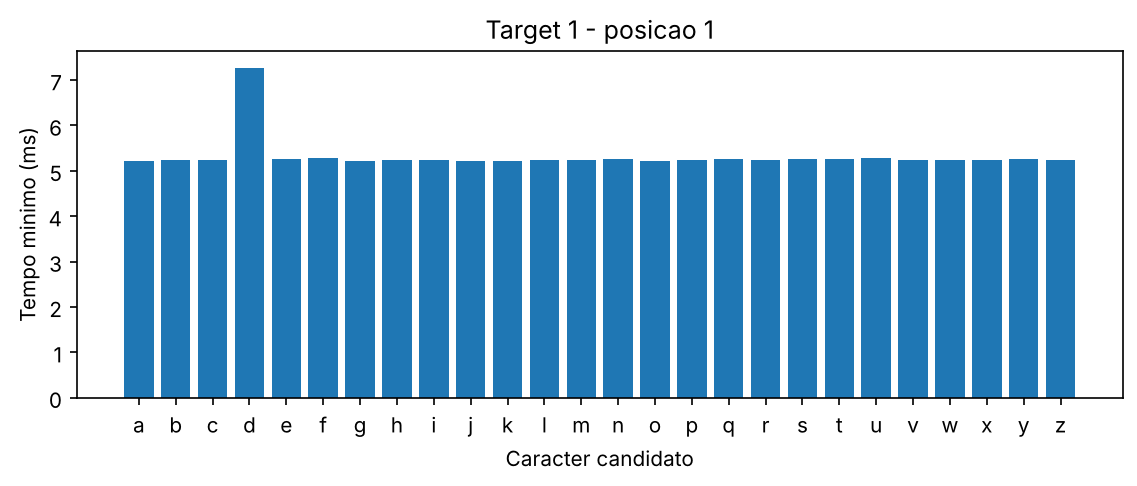
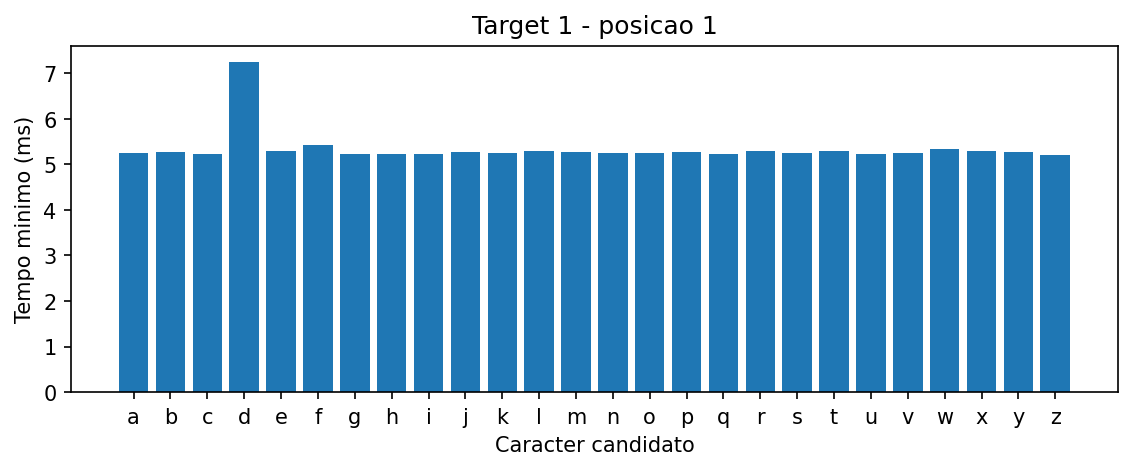
solve issues

Changed region(s): [[0.0, 0.0298, 0.9894, 0.9234], [0.4329, 0.9234, 0.6184, 0.983], [0.8039, 0.2979, 0.8966, 0.3574]]

diff --git a/README.md b/README.md
@@ -18,7 +18,7 @@ Pré-requisitos: Python 3, `pip install pyserial matplotlib`. Sysinternals `stri
 
 ### Target 1 — Developer password (timing attack)
 ```
-cd CODE/target-1
+cd code/target-1
 python timing_attack.py scan           # infere comprimento + 1.o caracter
 python timing_attack.py recover 13     # recupera a password (N = comprimento)
 python timing_attack.py finish dansudeulzbl   # ultimo caracter pela resposta
@@ -28,7 +28,7 @@ python plot_timing.py scan             # grafico da varredura
 
 ### Target 2 — Firmware dump
 ```
-cd CODE\target-2
+cd code\target-2
 python dump_capture.py 0                           # escreve TARGETS\target-2\progmem.bin + imprime SHA-256
 certutil -hashfile ..\..\TARGETS\target-2\progmem.bin SHA256   # verificacao do hash (Windows)
 ```
@@ -47,9 +47,18 @@ openssl base64 -d -A -in key.b64 -out key.der      # descodifica a chave (base64
 openssl base64 -d -A -in sig.b64 -out sig.bin      # descodifica a assinatura
 openssl asn1parse -inform DER -in key.der > asn1parse_key.txt
 openssl rsa -inform DER -in key.der -text -noout > rsa_text.txt
-python ..\..\CODE\target-4\entropy_scan.py        # entropy.csv + entropy_scan.png
+python ..\..\code\target-4\entropy_scan.py        # entropy.csv + entropy_scan.png
 ```
 Os blobs `key.b64` e `sig.b64` são o base64 copiado das strings do firmware (offsets 2954 e 4562).
+
+### Target 5 — c&c password
+```
+cd TARGETS\target-5
+openssl pkeyutl -decrypt -inkey ..\target-4\key.der -keyform DER -in ..\target-4\sig.bin -out hash.json
+type hash.json
+findstr "<MD5_do_hash.json>" ..\..\..\Rainbowtablee.txt > rainbow_lookup.txt
+```
+A "assinatura" (sig.bin) é na verdade um bloco encriptado com a chave pública; abre-se com a privada (do T4). O JSON tem um MD5; procura-se esse MD5 na coluna de hashes da rainbow table para obter a password.
 
 ## Respostas (placa 22)
 
@@ -77,7 +86,12 @@ Os blobs `key.b64` e `sig.b64` são o base64 copiado das strings do firmware (of
 - **Tamanho da assinatura:** 256 bytes (sig.bin) = um bloco RSA-2048.
 - **Entropy (chave vs codigo):** codigo ~4.63; chave em base64 ~5.98; assinatura em base64 ~5.89; chave descodificada ~7.81 bits/byte (quase aleatoria).
 
-### Targets 5–7
+### Target 5 — c&c password
+- **MD5 recuperado da assinatura:** `e07fcd7e6951d04659c4a8debe8e63de`
+- **Password do c&c:** `cncazezuxmihjpgrddzjnemmyzajtwcyqufqqrqcrsoqhsdtnnwwa`
+- **Porque chega uma rainbow table curta:** as passwords do c&c sao de um conjunto pequeno e conhecido (prefixo `cnc`, comprimento fixo) e o MD5 nao tem salt, logo basta pre-calcular as candidatas em vez de todo o espaco de strings.
+
+### Targets 6–7
 Por realizar.
 
 ## secrets.csv

diff --git a/TARGETS/target-1/README.md b/TARGETS/target-1/README.md
@@ -6,7 +6,7 @@
 - `char_timing.csv` - tempos por carácter nas posições analisadas.
 - `char_timing_pos1.png`, `char_timing_pos2.png` - gráficos da 1º e 2ª letra.
 - `scan_gap.png` - margem de tempo por comprimento.
-- Script que gera os gráficos a partir dos CSV: `CODE/target-1/plot_timing.py` (correr reproduz as figuras).
+- Script que gera os gráficos a partir dos CSV: `code/target-1/plot_timing.py` (correr reproduz as figuras).
 
 ## Resposta (placa 22)
 - **Comprimento inferido:** 13.
@@ -19,4 +19,4 @@
 - **Posição com menor margem:** Tal como na placa 22, as posições 1-11 correspondem todas a um único atraso (~0.9 ms), por isso as margens são praticamente iguais.
 
 ## Reproduzir
-Com a placa ligada: `CODE/target-1/timing_attack.py` (scan, recover, finish). Offline: `CODE/target-1/plot_timing.py` sobre os CSV reproduz os gráficos.
+Com a placa ligada: `code/target-1/timing_attack.py` (scan, recover, finish). Offline: `code/target-1/plot_timing.py` sobre os CSV reproduz os gráficos.

diff --git a/TARGETS/target-2/README.md b/TARGETS/target-2/README.md
@@ -1,13 +1,14 @@
 # Target 2 - Dumped Firmware
 
 ## Artefactos
-- `progmem.bin` - dump cru do PROGMEM (32768 bytes).
-- `SHA256SUMS.txt` - SHA-256 do dump.
-- Script de captura: `CODE/target-2/dump_capture.py`.
+- `progmem.bin` — dump cru do PROGMEM (32768 bytes).
+- `SHA256SUMS.txt` — SHA-256 do dump.
+- Script de captura: `code/target-2/dump_capture.py`.
 
 ## Resposta (placa 22)
[1 lines of base64/hex data omitted]
 - **Tamanho:** 32768 bytes.
+- **Offset da password de developer:** 18224 (tabela de credenciais do login).
 
 ## Resposta (placa 38)
[1 lines of base64/hex data omitted]

diff --git a/TARGETS/AI-DISCLOSURE.md b/TARGETS/AI-DISCLOSURE.md
@@ -7,7 +7,7 @@
 
 - Cursor (Grok) — scaffold inicial de `TARGETS/` e do README de submissão.
 - Claude (Anthropic) — apoio no desenvolvimento e depuração do código e na
-  estruturação do relatório, ao longo dos Targets 1 a 4.
+  estruturação do relatório, ao longo dos Targets 1 a 5.
 
 ## What each tool was used for
 
@@ -26,7 +26,7 @@
 ## Targets / sections involved
 
 - Submission scaffolding (README, `TARGETS/`).
-- Targets 1, 2, 3 e 4 (código, evidências e redação).
+- Targets 1, 2, 3, 4 e 5 (código, comandos, evidências e redação).
 
 ## Confirmation
 

diff --git a/TARGETS/target-4/README.md b/TARGETS/target-4/README.md
@@ -5,7 +5,7 @@
 - `key.der`, `sig.bin` — versões binárias (base64 descodificado com `openssl base64 -d -A`).
 - `asn1parse_key.txt` — saída de `openssl asn1parse` sobre a chave.
 - `rsa_text.txt` — saída de `openssl rsa -text` sobre a chave.
-- `entropy.csv`, `entropy_scan.png` — scan de entropy do firmware (`CODE/target-4/entropy_scan.py`).
+- `entropy.csv`, `entropy_scan.png` — scan de entropy do firmware (`code/target-4/entropy_scan.py`).
 
 ## Resposta (placa 22)
 - **Tamanho da chave:** 2048 bits (RSA privada, 2 primos).
